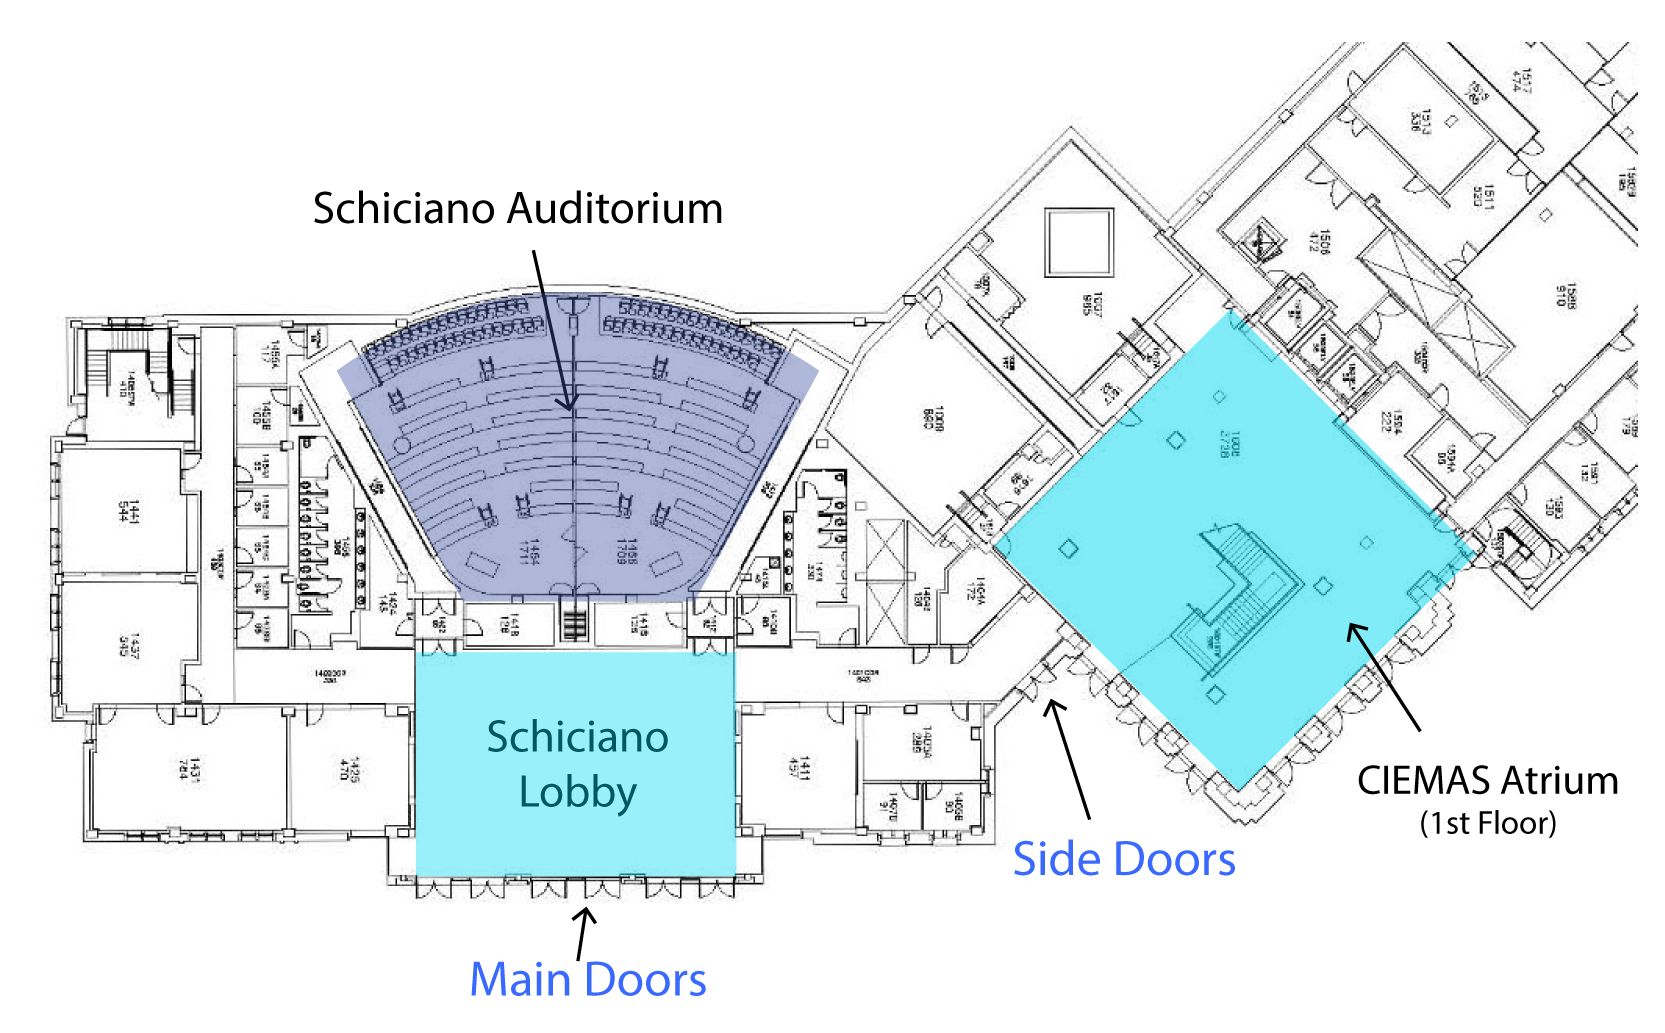
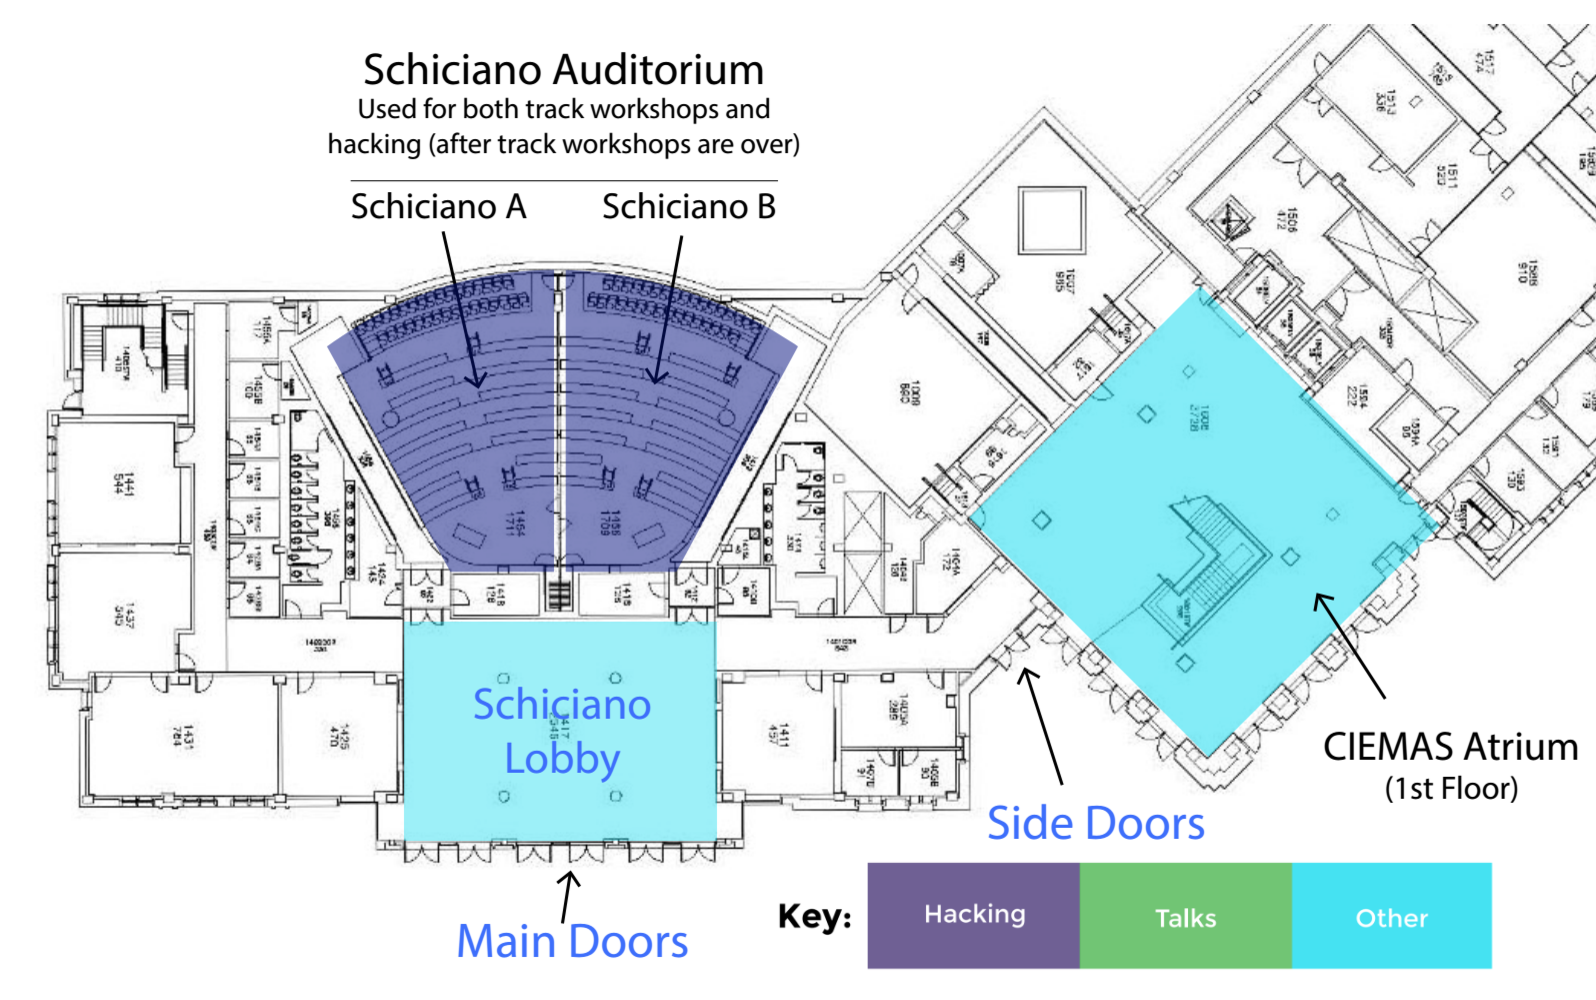
Map color updates + key + walking path (#7)
* more map updates (added key, path, updated labels, etc.)

* got rid of teer import for now

* changed NavMenu unit test to expect 6 (not 5) links

diff --git a/tests/components/NavMenu.spec.js b/tests/components/NavMenu.spec.js
@@ -15,7 +15,7 @@ describe('(Component) NavMenu', () => {
   })
 
   it('renders the correct number of IndexLinks (6)', () => {
-    expect(_wrapper.find(IndexLink)).to.have.length(5)
+    expect(_wrapper.find(IndexLink)).to.have.length(6)
   })
 
   it('clicking IndexLinks sends to correct page', () => {
